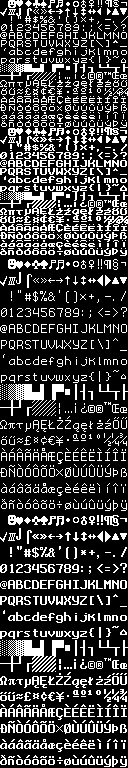
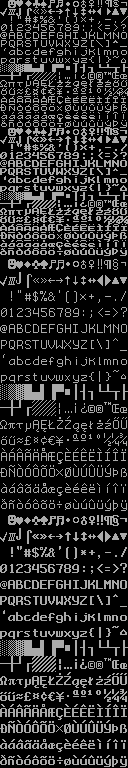
Update font.png
Center the punctuation, looks better.

Changed region(s): [[0.0, 0.0, 1.0, 1.0]]

diff --git a/bios/ffconf.h b/bios/ffconf.h
@@ -123,7 +123,7 @@
 /   3: Enable LFN with dynamic working buffer on the HEAP.
 /
 /  To enable the LFN, ffunicode.c needs to be added to the project. The LFN function
-/  requiers certain internal working buffer occupies (FF_MAX_LFN + 1) * 2 bytes and
+/  requires certain internal working buffer occupies (FF_MAX_LFN + 1) * 2 bytes and
 /  additional (FF_MAX_LFN + 44) / 15 * 32 bytes when exFAT is enabled.
 /  The FF_MAX_LFN defines size of the working buffer in UTF-16 code unit and it can
 /  be in range of 12 to 255. It is recommended to be set it 255 to fully support LFN
@@ -148,7 +148,7 @@
 #define FF_LFN_BUF		255
 #define FF_SFN_BUF		12
 /* This set of options defines size of file name members in the FILINFO structure
-/  which is used to read out directory items. These values should be suffcient for
+/  which is used to read out directory items. These values should be sufficient for
 /  the file names to read. The maximum possible length of the read file name depends
 /  on character encoding. When LFN is not enabled, these options have no effect. */
 
@@ -197,7 +197,7 @@
 #define FF_MAX_SS		512
 /* This set of options configures the range of sector size to be supported. (512,
 /  1024, 2048 or 4096) Always set both 512 for most systems, generic memory card and
-/  harddisk, but a larger value may be required for on-board flash memory and some
+/  hard disk, but a larger value may be required for on-board flash memory and some
 /  type of optical media. When FF_MAX_SS is larger than FF_MIN_SS, FatFs is configured
 /  for variable sector size mode and disk_ioctl() function needs to implement
 /  GET_SECTOR_SIZE command. */
@@ -226,7 +226,7 @@
 
 #define FF_FS_TINY		1
 /* This option switches tiny buffer configuration. (0:Normal or 1:Tiny)
-/  At the tiny configuration, size of file object (FIL) is shrinked FF_MAX_SS bytes.
+/  At the tiny configuration, size of file object (FIL) is shrank FF_MAX_SS bytes.
 /  Instead of private sector buffer eliminated from the file object, common sector
 /  buffer in the filesystem object (FATFS) is used for the file data transfer. */
 
